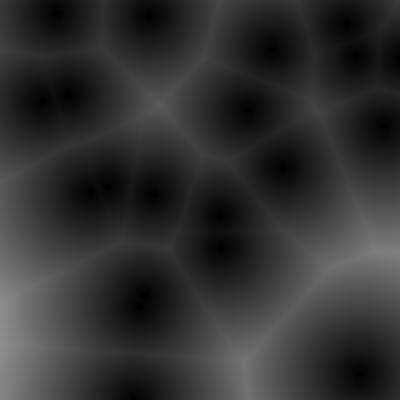
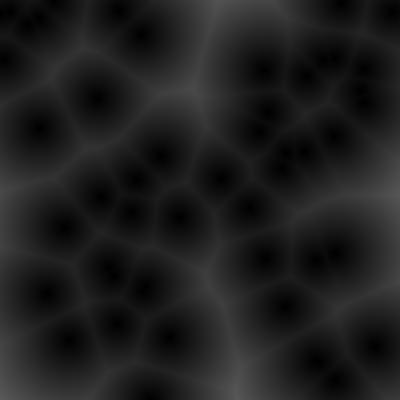
Modify points quantity

diff --git a/WorleyNoise.py b/WorleyNoise.py
@@ -5,7 +5,7 @@ import numpy as np
 WIDTH, HEIGHT = 400, 400
 n = 0
 points = []
-nPoints = 20
+nPoints = 50
 points = [np.array([randint(0,WIDTH),randint(0,HEIGHT)]) for i in range(nPoints)]
 
 img = Image.new('RGB',(WIDTH,HEIGHT))
